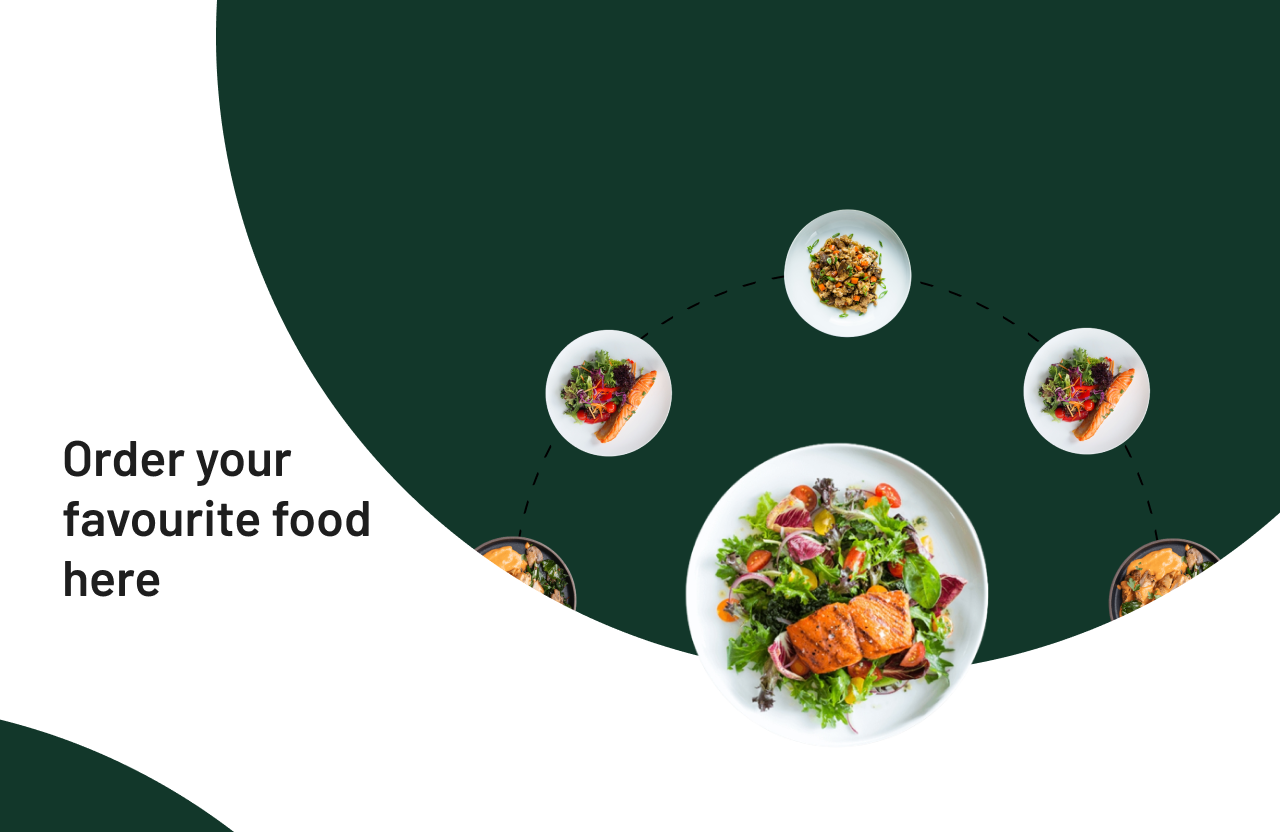
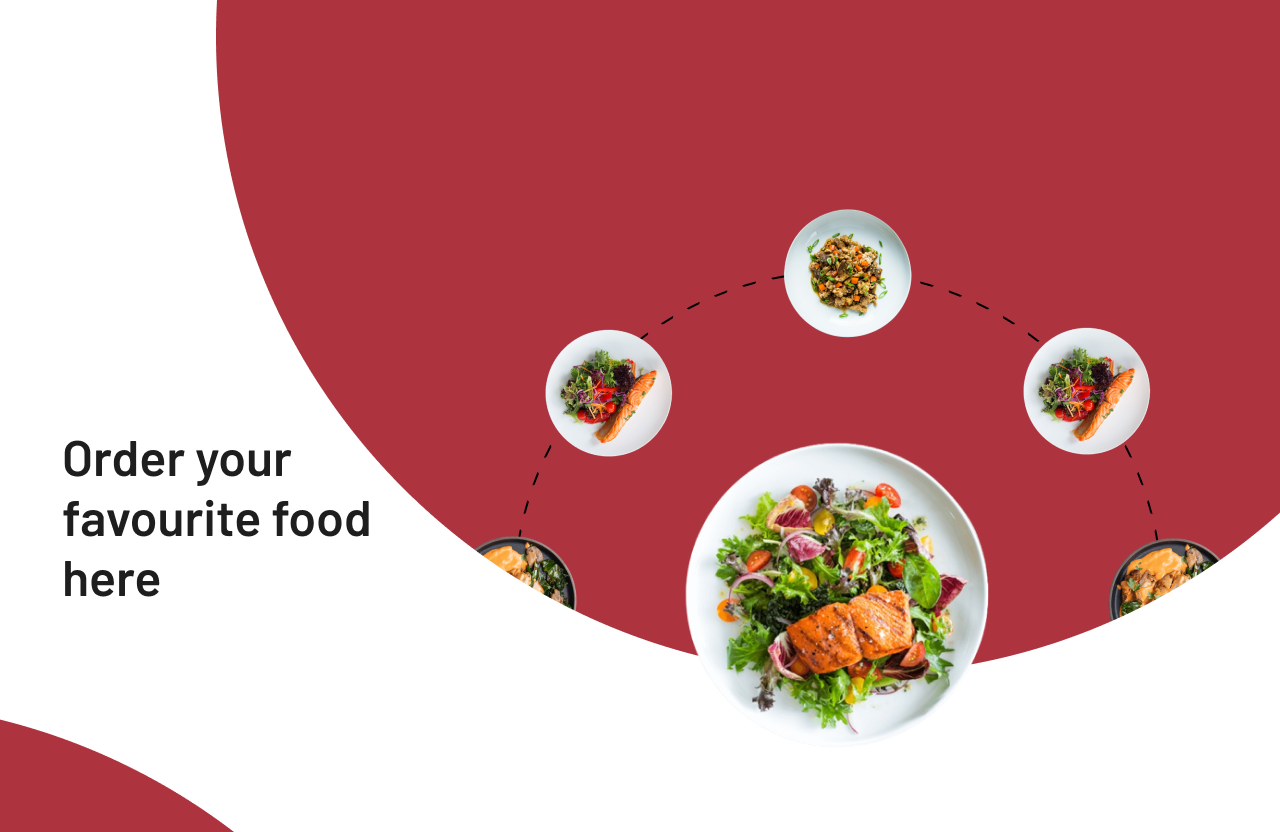
third-commit

diff --git a/frontend/src/components/Footer/Footer.jsx b/frontend/src/components/Footer/Footer.jsx
@@ -4,36 +4,32 @@ import { assets } from '../../assets/assets'
 
 const Footer = () => {
   return (
+    
     <div className='footer' id='footer'>
       <div className="footer-content">
         <div className="footer-content-left">
-            <h2 className='color-campus'>Campus Bite</h2>
-            <p>Lorem Ipsum is simply dummy text of the printing and typesetting industry. Lorem Ipsum has been the industry's standard dummy text ever since the 1500s, when an unknown printer took a galley of type and scrambled it to make a type specimen book.</p>
-            <div className="footer-social-icons">
-                <img src={assets.facebook_icon} alt="" />
-                <img src={assets.twitter_icon} alt="" />
-                <img src={assets.linkedin_icon} alt="" />
-            </div>
-        </div>
-        <div className="footer-content-center">
-            <h2>COMPANY</h2>
+        {/* <h2>Team 4</h2> */}
             <ul>
-                <li>Home</li>
-                <li>About us</li>
-                <li>Delivery</li>
-                <li>Privacy policy</li>
+                <li>B.Lasya Priya</li>
+                <li>C.Pragna Sri</li>
+                <li>P.Pranavi Sree</li>
+                <li>D.Jayant Reddy</li>
+                <li>R.Rohit</li>
+                <li>C.Siddharth</li>
             </ul>
+            
         </div>
+        
         <div className="footer-content-right">
-            <h2>GET IN TOUCH</h2>
+            <h2>Campus Bite</h2>
             <ul>
-                <li>+1-212-456-7890</li>
-                <li>contact@tomato.com</li>
+                <li>Team 4</li>
+                <li>contact@campusbite.com</li>
             </ul>
         </div>
       </div>
       <hr />
-      <p className="footer-copyright">Copyright 2024 © Tomato.com - All Right Reserved.</p>
+      <p className="footer-copyright">Copyright 2024 © CampusBite.com - All Right Reserved.</p>
     </div>
   )
 }

diff --git a/frontend/src/components/Navbar/Navbar.css b/frontend/src/components/Navbar/Navbar.css
@@ -37,7 +37,7 @@ position: relative;
     position: absolute;
     min-width: 10px;
     min-height: 10px;
-    background-color: #12372A;
+    background-color: #AD343E;
     border-radius: 5px;
     top: -8px;
     right: -8px;
@@ -47,7 +47,7 @@ position: relative;
     background: transparent;
     font-size: 16px;
     color: #49557E;
-    border: 1px solid #12372A;
+    border: 1px solid #AD343E;
     padding: 10px 30px;
     border-radius: 50px;
     cursor: pointer;
@@ -78,16 +78,16 @@ position: relative;
     width: 20px;
 }
 .navbar-profile-dropdown li:hover{
-    color: #FF4C24;
+    color: #AD343E;
 }
 .navbar-profile:hover .navbar-profile-dropdown{
     display: flex;
     flex-direction: column;
     gap: 10px;
-    background-color: #fff2ef;
+    background-color: #fde8e8;
     padding: 12px 25px;
     border-radius: 4px;
-    border: 1px solid tomato;
+    border: 1px solid #AD343E;
     outline: 2px solid white;
     list-style: none;
 }

diff --git a/frontend/src/pages/PlaceOrder/PlaceOrder.css b/frontend/src/pages/PlaceOrder/PlaceOrder.css
@@ -20,7 +20,7 @@
     padding: 10px;
     border: 1px solid #C5C5C5;
     border-radius: 4px;
-    outline-color: #12372A;
+    outline-color: #AD343E;
 }
 .place-order-left .multi-field{
     display: flex;
@@ -33,7 +33,7 @@
 .place-order-submit{
     margin-top: 50px;
     border: none;
-    background-color: #12372A;
+    background-color: #AD343E;
     color: white;
     padding: 12px 30px;
     border-radius: 4px;
@@ -53,14 +53,14 @@
     display: flex;
     align-items: center;
     gap: 10px ;
-    border: 1px solid tomato;
+    border: 1px solid #AD343E;
     padding: 15px;
     border-radius: 4px;
     min-width: 300px;
     cursor: pointer;
 }
 .payment .payment-option:hover{
-    background-color:  #ffe7de;
+    background-color:  #fde8e8;
 }
 
 @media (max-width:700px) {

diff --git a/frontend/src/pages/MyOrders/MyOrders.css b/frontend/src/pages/MyOrders/MyOrders.css
@@ -16,13 +16,13 @@
     padding: 10px 20px;
     color: #454545;
     border: 1px solid ;
-    border-color: #12372A;
+    border-color: #AD343E;
 }
 .my-orders-order img{
     width: 50px;
 }
 .my-orders-order p span{
-    color: #12372A;
+    color: #AD343E;
 }
 .my-orders-order p b{
     font-weight: 500;
@@ -32,7 +32,7 @@
     border: none;
     padding: 12px 0px;
     border-radius: 4px;
-    background-color: #FFE1E1;
+    background-color: #f7b0b0;
     cursor: pointer;
     color: #454545;
 }

diff --git a/admin/src/pages/Orders/Orders.css b/admin/src/pages/Orders/Orders.css
@@ -4,7 +4,7 @@
     align-items: start;
     gap: 30px;
     border: 1px solid;
-    border-color: #12372A;
+    border-color: #AD343E;
     padding: 20px;
     margin: 30px 0px;
     font-size: 14px;
@@ -23,7 +23,7 @@
 .order-item select{
     background-color: #ffe8e4;
     border: 1px solid;
-    border-color: #12372A;
+    border-color: #AD343E;
     width: max(10vw,120px);
     padding: 10px;
     outline:none;

diff --git a/frontend/src/components/FoodItem/FoodItem.css b/frontend/src/components/FoodItem/FoodItem.css
@@ -21,7 +21,7 @@
     border-radius: 50%;
 }
 .food-item-img-container .add:hover{
-    border: 2px solid #12372A;
+    border: 2px solid #AD343E;
 }
 .food-item-image{
    width: 100%;
@@ -62,7 +62,7 @@
     font-size: 12px;
 }
 .food-item-price{
-    color: #12372A;
+    color: #AD343E;
     font-size: 22px;
     font-weight: 500;
     margin: 10px 0px;

diff --git a/frontend/src/components/LoginPopup/LoginPopup.css b/frontend/src/components/LoginPopup/LoginPopup.css
@@ -45,7 +45,7 @@
     padding: 10px;
     border-radius: 4px;
     color: white;
-    background-color: #12372A;
+    background-color: #AD343E;
     font-size: 15px;
     cursor: pointer;
 }
@@ -62,7 +62,7 @@
 
 
 .login-popup p span{
-    color: #12372A;
+    color: #AD343E;
     font-weight: 500;
     cursor: pointer;
 }

diff --git a/frontend/src/pages/Cart/Cart.css b/frontend/src/pages/Cart/Cart.css
@@ -62,7 +62,7 @@
 .cart-total button {
     border: none;
     color: white;
-    background-color: #12372A;
+    background-color: #AD343E;
     width: max(15vw,200px);
     padding: 12px 0px;
     border-radius: 4px;

diff --git a/frontend/src/pages/Verify/Verify.css b/frontend/src/pages/Verify/Verify.css
@@ -7,7 +7,7 @@
     height: 100px;
     place-self: center;
     border: 5px solid #bdbdbd;
-    border-top-color: tomato;
+    border-top-color: #AD343E;
     border-radius: 50%;
     animation: rotate 1s infinite;
 }

diff --git a/frontend/src/components/ExploreMenu/ExploreMenu.css b/frontend/src/components/ExploreMenu/ExploreMenu.css
@@ -32,7 +32,7 @@
 }
 .explore-menu-list-item .active{
     border: 4px solid ;
-    border-color: #12372A;
+    border-color: #AD343E;
     padding: 2px;
 }
 .explore-menu-list-item p{

diff --git a/admin/src/components/Sidebar/Sidebar.css b/admin/src/components/Sidebar/Sidebar.css
@@ -29,7 +29,7 @@
 }
 .sidebar-option.active {
  background-color: #fff0ed;
- border-color: #12372A;
+ border-color: #AD343E;
 }
 @media (max-width:900px) {
     .sidebar-option p{
